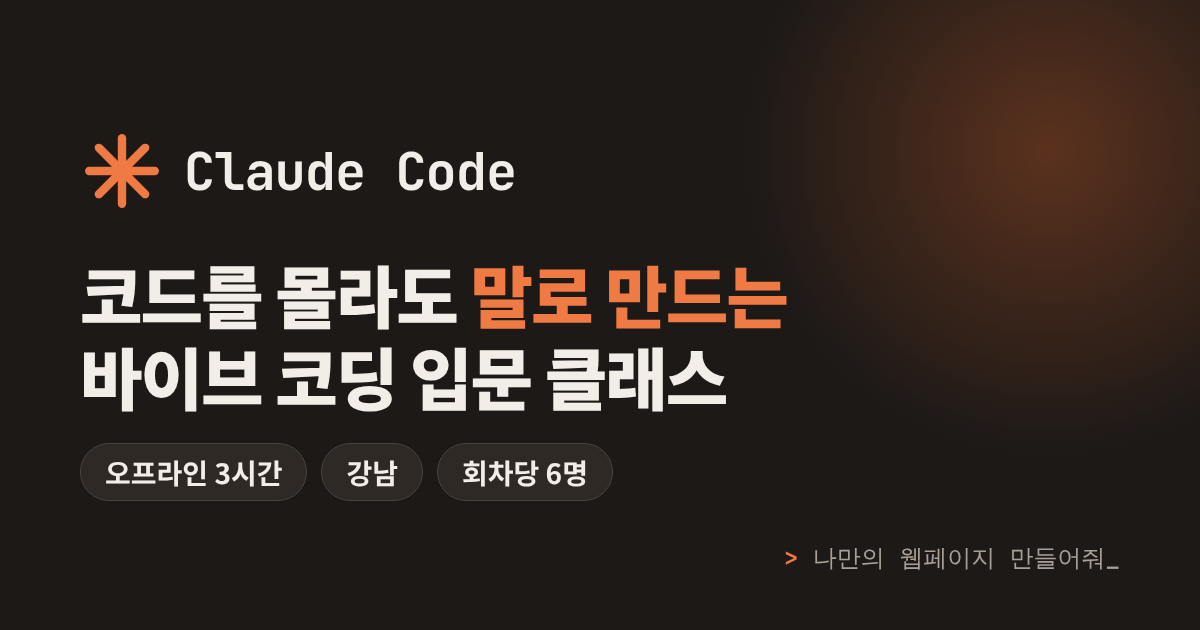
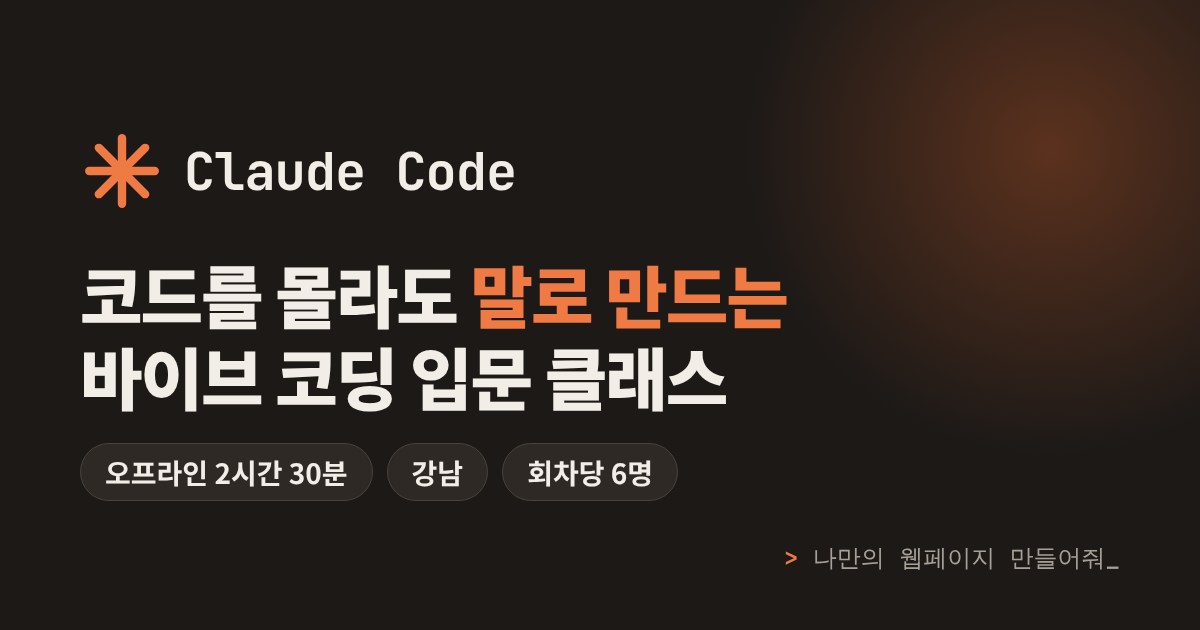
커리큘럼 2시간 30분으로 변경 (랜딩·안내 페이지·검색 정보·미리보기 이미지)
Claude-Session: https://claude.ai/code/session_01AqtsCwC5Gf5dwZoXZ1zs2A

Changed region(s): [[0.2467, 0.7238, 0.555, 0.7841]]

diff --git a/public/index.html b/public/index.html
@@ -4,15 +4,15 @@
 <meta charset="utf-8">
 <meta name="viewport" content="width=device-width, initial-scale=1">
 <title>바이브 코딩 입문 클래스 | 클로드 코드(Claude Code) 강남 오프라인 강의</title>
-<meta name="description" content="코딩을 몰라도 괜찮아요. 클로드 코드(Claude Code)로 3시간 동안 나만의 웹페이지를 만들고 배포까지 해보는 강남 오프라인 바이브 코딩 입문 강의. 회차당 6명 소수 정예, 수강료 3만 원.">
+<meta name="description" content="코딩을 몰라도 괜찮아요. 클로드 코드(Claude Code)로 2시간 30분 동안 나만의 웹페이지를 만들고 배포까지 해보는 강남 오프라인 바이브 코딩 입문 강의. 회차당 6명 소수 정예, 수강료 3만 원.">
 <meta name="keywords" content="바이브 코딩, 바이브코딩 강의, 클로드 코드, Claude Code, 클로드 코드 강의, AI 코딩 강의, 노코드, 코딩 입문, 강남 코딩 강의, 오프라인 코딩 클래스">
 <meta name="robots" content="index, follow, max-image-preview:large">
 <link rel="canonical" href="https://aieo.kr/">
 <meta property="og:url" content="https://aieo.kr/">
 <meta property="og:site_name" content="바이브 코딩 입문 클래스">
 <meta property="og:locale" content="ko_KR">
-<meta property="og:title" content="바이브 코딩 입문 클래스 | 클로드 코드로 3시간 만에 첫 서비스 만들기">
-<meta property="og:description" content="코딩을 몰라도 괜찮아요. 말로 설명하면 AI가 코드를 씁니다. 오프라인 3시간 실습 클래스.">
+<meta property="og:title" content="바이브 코딩 입문 클래스 | 클로드 코드로 2시간 30분 만에 첫 서비스 만들기">
+<meta property="og:description" content="코딩을 몰라도 괜찮아요. 말로 설명하면 AI가 코드를 씁니다. 오프라인 2시간 30분 실습 클래스.">
 <meta property="og:type" content="website">
 <meta property="og:image" content="/og.png">
 <meta property="og:image:width" content="1200">
@@ -334,9 +334,9 @@
   <section class="hero">
     <div class="wrap">
       <div>
-        <span class="eyebrow">클로드 코드 바이브 코딩 · 강남 오프라인 · 3시간</span>
+        <span class="eyebrow">클로드 코드 바이브 코딩 · 강남 오프라인 · 2시간 30분</span>
         <h1>코드를 몰라도<br><em>말로 만드는</em> 첫 서비스</h1>
-        <p class="lead">Claude Code와 대화하며 나만의 웹페이지를 만들고, 인터넷에 올려 링크로 공유하기까지. 3시간 동안 직접 손으로 해봅니다.</p>
+        <p class="lead">Claude Code와 대화하며 나만의 웹페이지를 만들고, 인터넷에 올려 링크로 공유하기까지. 2시간 30분 동안 직접 손으로 해봅니다.</p>
         <div class="cta-row">
           <a href="#apply" class="btn js-apply">지금 신청하기 →</a>
           <a href="#curriculum" class="btn ghost">커리큘럼 보기</a>
@@ -398,45 +398,45 @@
   <!-- CURRICULUM -->
   <section class="alt" id="curriculum">
     <div class="wrap">
-      <h2>3시간 커리큘럼</h2>
+      <h2>2시간 30분 커리큘럼</h2>
       <p class="sub">설명은 짧게, 실습은 길게. 끝날 때 내 손에는 실제로 접속되는 링크가 남습니다.</p>
       <div class="timeline">
         <div class="step">
-          <div class="time">00:00 – 00:15</div>
+          <div class="time">00:00 – 00:10</div>
           <h3>바이브 코딩과 Claude Code 소개</h3>
           <p>AI가 코드를 쓰는 시대에 내가 해야 할 일은 무엇인지, 실제 시연으로 감 잡기.</p>
         </div>
         <div class="step">
-          <div class="time">00:15 – 00:35</div>
+          <div class="time">00:10 – 00:25</div>
           <h3>웹서비스 기초: 인터넷 서비스는 어떻게 돌아갈까</h3>
           <p>브라우저와 서버, 데이터베이스, 도메인과 배포가 각각 무슨 일을 하는지 그림으로 이해합니다. AI에게 무엇을 시켜야 할지 감이 오는 최소한의 지도를 그려 드려요.</p>
         </div>
         <div class="step">
-          <div class="time">00:35 – 00:55</div>
+          <div class="time">00:25 – 00:40</div>
           <h3>설치와 첫 대화</h3>
           <p>Claude Code를 설치하고 터미널에서 첫 요청 보내기. 막히는 부분은 강사가 옆에서 같이 해결합니다.</p>
         </div>
         <div class="step">
-          <div class="time">00:55 – 01:50</div>
+          <div class="time">00:40 – 01:30</div>
           <h3>실습 1: 나만의 웹페이지 만들기</h3>
           <p>자기소개, 가게 홍보, 이벤트 페이지 중 하나를 골라 대화만으로 완성합니다. 좋은 요청을 쓰는 요령도 함께.</p>
         </div>
         <div class="step">
-          <div class="time">01:50 – 02:00</div>
+          <div class="time">01:30 – 01:40</div>
           <h3>쉬는 시간</h3>
         </div>
         <div class="step">
-          <div class="time">02:00 – 02:30</div>
+          <div class="time">01:40 – 02:05</div>
           <h3>깃허브에 올리고 무료로 배포하기</h3>
           <p>만든 페이지를 인터넷에 공개해 친구에게 링크로 보내 봅니다.</p>
         </div>
         <div class="step">
-          <div class="time">02:30 – 02:50</div>
+          <div class="time">02:05 – 02:20</div>
           <h3>실습 2: 기능 하나 더 붙이기</h3>
           <p>문의 버튼, 지도, 신청 폼처럼 내 페이지에 필요한 기능을 하나 골라 직접 추가하고 다시 배포해 봅니다.</p>
         </div>
         <div class="step">
-          <div class="time">02:50 – 03:00</div>
+          <div class="time">02:20 – 02:30</div>
           <h3>다음 단계와 Q&amp;A</h3>
           <p>혼자서 계속 만들어 가는 방법, 자주 하는 실수, 비용 관리 팁.</p>
         </div>
@@ -573,7 +573,7 @@
   <!-- FINAL CTA -->
   <section class="final">
     <div class="wrap">
-      <h2>3시간 뒤, 내가 만든 서비스의 링크를 공유해 보세요</h2>
+      <h2>2시간 30분 뒤, 내가 만든 서비스의 링크를 공유해 보세요</h2>
       <p>회차마다 자리는 6석뿐입니다.</p>
       <a href="#apply" class="btn js-apply">수강 신청하기 →</a>
     </div>

diff --git a/server.js b/server.js
@@ -257,8 +257,8 @@ function courseJsonLd() {
   const data = {
     "@context": "https://schema.org",
     "@type": "Course",
-    name: "바이브 코딩 입문 클래스: 클로드 코드(Claude Code)로 3시간 만에 첫 서비스 만들기",
-    description: "코딩을 몰라도 클로드 코드와 대화하며 나만의 웹페이지를 만들고 배포까지 해보는 강남 오프라인 3시간 입문 강의.",
+    name: "바이브 코딩 입문 클래스: 클로드 코드(Claude Code)로 2시간 30분 만에 첫 서비스 만들기",
+    description: "코딩을 몰라도 클로드 코드와 대화하며 나만의 웹페이지를 만들고 배포까지 해보는 강남 오프라인 2시간 30분 입문 강의.",
     inLanguage: "ko",
     url: SITE_URL + "/",
     image: SITE_URL + "/og.png",

diff --git a/public/admin.html b/public/admin.html
@@ -159,7 +159,7 @@
         <form id="slotForm" class="form-grid">
           <label>날짜<input type="date" name="date" required></label>
           <label>시작<input type="time" name="start" value="14:00" required></label>
-          <label>종료<input type="time" name="end" value="17:00" required></label>
+          <label>종료<input type="time" name="end" value="16:30" required></label>
           <label>장소<input name="place" value="강남" required></label>
           <label>정원<input type="number" name="capacity" value="6" min="1" max="100" required></label>
           <div class="row"><button class="btn" id="slotSubmit">추가</button><button type="button" class="btn ghost" id="slotCancel" hidden>취소</button></div>

diff --git a/public/info.html b/public/info.html
@@ -57,7 +57,7 @@
       <div class="ic" aria-hidden="true">📅</div>
       <div>
         <div class="label">일시</div>
-        <div class="value">토요일 오후 2시 ~ 5시 (3시간)</div>
+        <div class="value">토요일 오후 2시 ~ 4시 30분 (2시간 30분)</div>
         <div class="sub">신청하신 날짜는 신청 완료 문자에서 확인해 주세요.</div>
       </div>
     </div>

diff --git a/README.md b/README.md
@@ -1,6 +1,6 @@
 # 바이브 코딩 입문 클래스
 
-Claude Code로 배우는 바이브 코딩 입문 오프라인 클래스(3시간) 홍보 페이지와 수강 신청 서버입니다.
+Claude Code로 배우는 바이브 코딩 입문 오프라인 클래스(2시간 30분) 홍보 페이지와 수강 신청 서버입니다.
 
 - 일정별 남은 자리 표시, 회차당 최대 6명
 - 신청 시 휴대폰 문자 인증 (솔라피), 신청 완료 문자에 수강 안내 링크(`/info`) 발송
